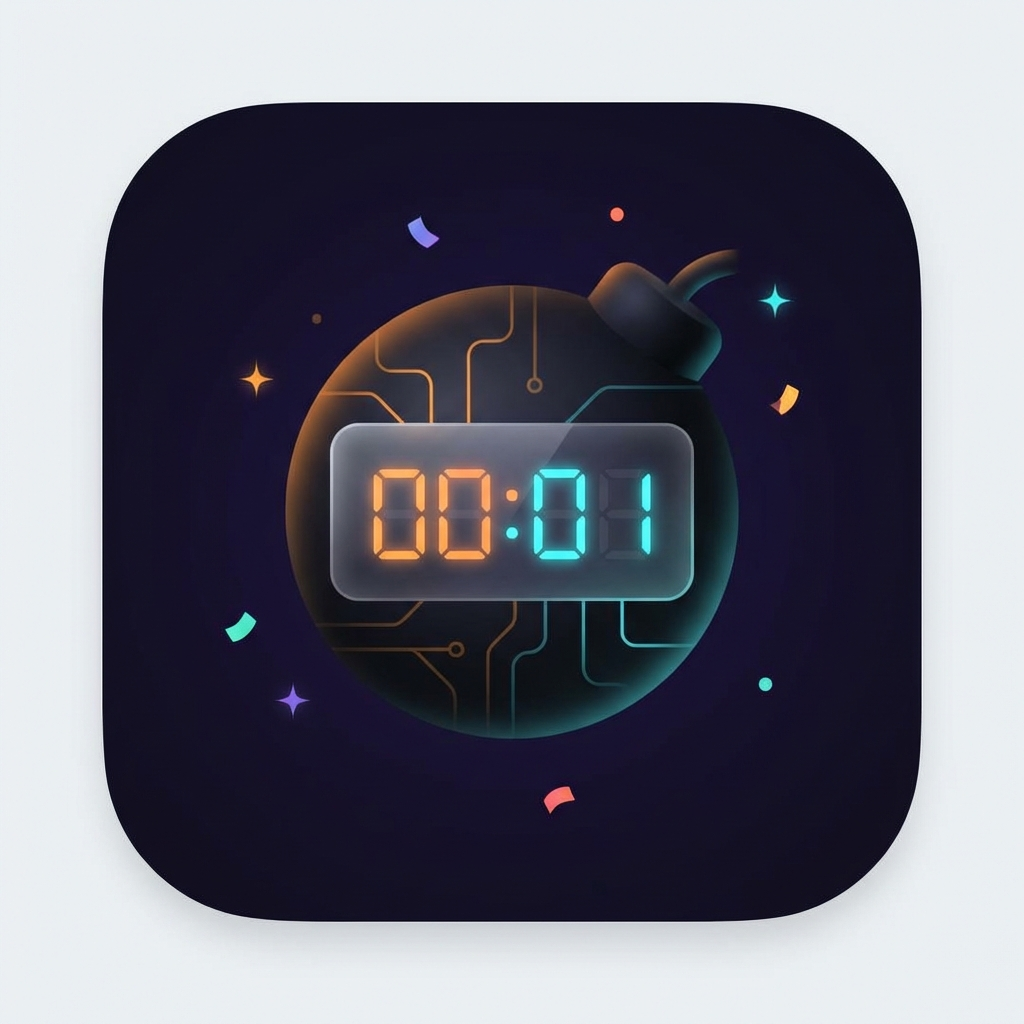
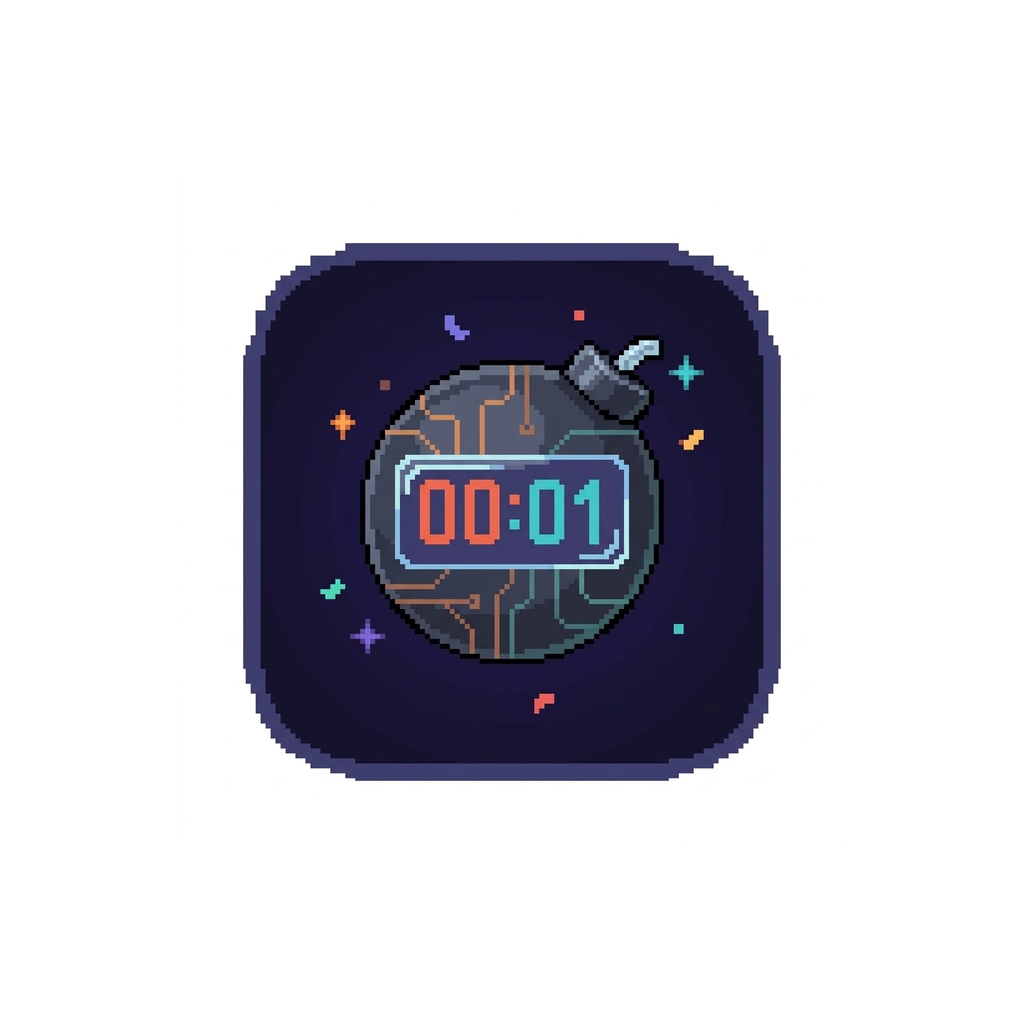
chore: finalize pixel art assets

diff --git a/specs/001-pixel-art-animations/tasks.md b/specs/001-pixel-art-animations/tasks.md
@@ -179,7 +179,7 @@ Reglas comunes de [contracts/components.md](./contracts/components.md#reglas-com
 
 **Purpose**: Arte final, limpieza, documentación y presupuestos
 
-- [ ] T060 Sustituir cualquier export provisional restante de T012 por el arte final en `assets/pixel-src/export/`, ejecutar `npm run sprites` y completar `assets/LICENSES.md` (FR-024)
+- [x] T060 Sustituir cualquier export provisional restante de T012 por el arte final en `assets/pixel-src/export/`, ejecutar `npm run sprites` y completar `assets/LICENSES.md` (FR-024)
 - [x] T061 Eliminar `assets/images/bomb.png` y `assets/images/explosion.png` tras comprobar con búsqueda que no tienen referencias
 - [x] T062 [P] Actualizar la sección _Styling_ de `CLAUDE.md` con el kit `components/pixel/`, `theme/`, `npm run sprites`, `useReducedMotion` y `usePixelNavigation`
 - [x] T063 Medir el bundle con `npx expo export --platform android` y comprobar ≤ 5 MB sobre la línea base de T004 (SC-007)

diff --git a/assets/LICENSES.md b/assets/LICENSES.md
@@ -2,6 +2,13 @@
 
 Third-party assets bundled with the app. Every entry must allow commercial use.
 
+## Original project artwork
+
+The pixel-art sprites, icons, and backgrounds in `assets/pixel-src/export/` are generated
+from original drawing routines in `scripts/generate-pixel-art.js`. They are not third-party
+assets and require no external attribution. Run `npm run art` to regenerate the source PNGs
+and their upscaled versions in `assets/`.
+
 | Asset                 | Author            | Source                                           | License     | Attribution  |
 | --------------------- | ----------------- | ------------------------------------------------ | ----------- | ------------ |
 | Press Start 2P (font) | CodeMan38         | https://fonts.google.com/specimen/Press+Start+2P | SIL OFL 1.1 | Not required |
